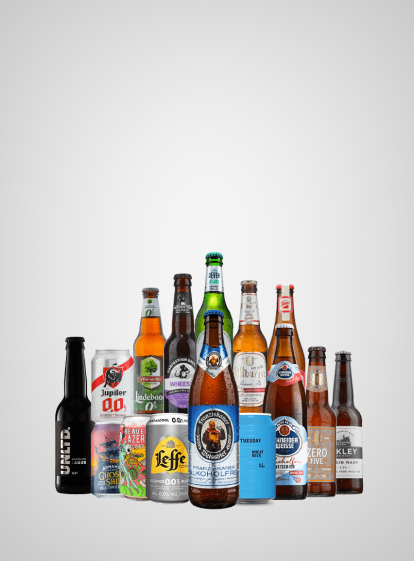
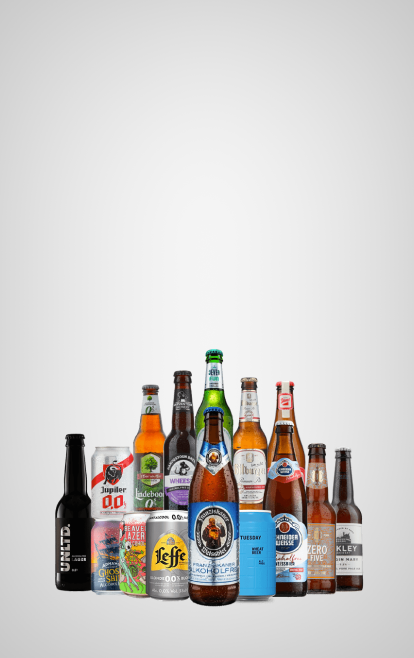
fixed header of home page
Changed the hero img and text alignment

Changed region(s): [[0.1159, 0.4242, 0.8986, 0.9394]]

diff --git a/css/main.css b/css/main.css
@@ -595,6 +595,10 @@ main{
 }
 
 /*--------------------------------------------------Home----------------------------------------------------*/
+.nav_home{
+	background-color: #3A2E2A;
+}
+
 .hero_img p{
 	color: white;
 	font-size: 32px;
@@ -671,7 +675,7 @@ main{
 .hero_img{
 	background-image: url("../img/hero_img.png");
   
-	min-height: 45rem;
+	min-height: 43rem;
 	width: 100%;
   
 	background-position: center;
@@ -681,3 +685,12 @@ main{
    /* Needed to position the navbar */
    position: relative;
   }
+
+  #hero_text a{
+	display: inline-block;
+	text-decoration: none;
+	background-color: #FFAF34;
+	color: #3A2E2A;
+	padding: 1rem 3rem 1rem 3rem	;
+	border-radius: 1rem;		
+}

diff --git a/css/grid.css b/css/grid.css
@@ -697,4 +697,39 @@ footer{
 		grid-column-end: 3;	
 		grid-row-start: 2;	  
 	  }
+
+	  #hero_text{
+		margin-left: 0rem;
+	}
+
+	#hero_text p{
+		margin-left: 3rem;
+		margin-right: 3rem;
+		width: auto;
+		text-align: center;
+	}
+
+	#hero_text h1{
+		text-align: center;
+		margin-bottom: 3rem;
+	}
+
+	#hero_text a{
+		display: block;
+		text-decoration: none;
+		background-color: #FFAF34;
+		color: #3A2E2A;
+		border-radius: 1rem;
+		text-align: center;	
+		margin: 1rem 15rem 1rem 15rem;	
+	}
+
+	.hero_img{
+		min-height: 70rem;
+	  }
+
+	  .bitter_bigger_header{
+		text-align: center;
+	}
+
 }

diff --git a/home.html b/home.html
@@ -31,7 +31,7 @@
 						</div>
 					</div>
 					<a id="imglink" href="CheckOut.html" >
-						<img src="img/icon-cart-brown.png" alt="an icon of shopping cart" width="60">
+						<img src="img/cart_icon.png" alt="an icon of shopping cart" width="60">
 					</a>
 				</div>
 			</nav>
@@ -40,6 +40,7 @@
             <h1>We Sell What We Love </h1>
             <p>Looking for where to find healthier and 
                 fresh craft beer releases? You can find products in WbB!</p>
+			<a href="Shop.html">Shop Now</a>
         </div>
 
 	</div>

diff --git a/css/pattern.css b/css/pattern.css
@@ -70,7 +70,7 @@
   .nav_home a {
   float: left;
   font-size: 1.5rem;
-  color: #3A2E2A;
+  color: white;
   text-align: center;
   padding: 14px 16px;
   text-decoration: none;
@@ -106,7 +106,7 @@
     font-size: 1.5rem; 
   border: none;
   outline: none;
-  color: #3A2E2A;
+  color: white;
   padding: 14px 16px;
   background-color: inherit;
   font-family: inherit;
